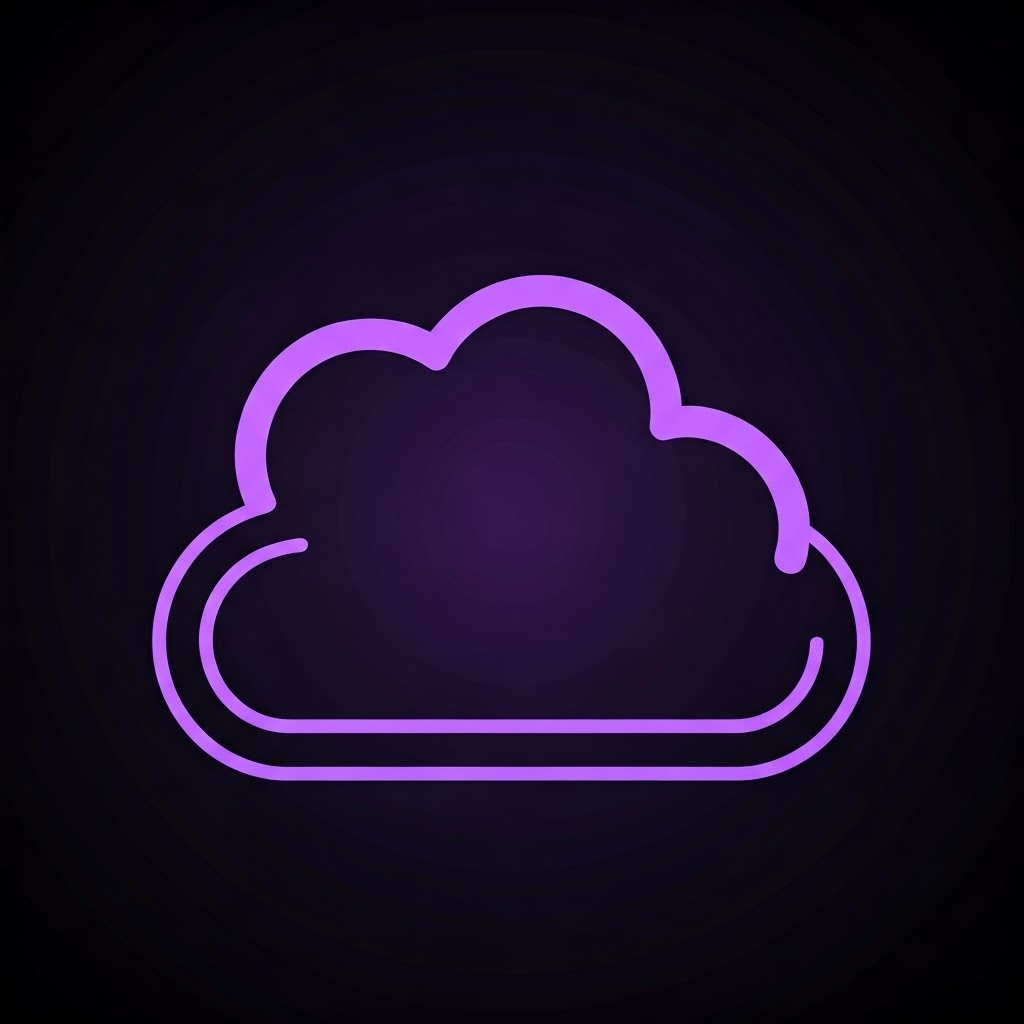
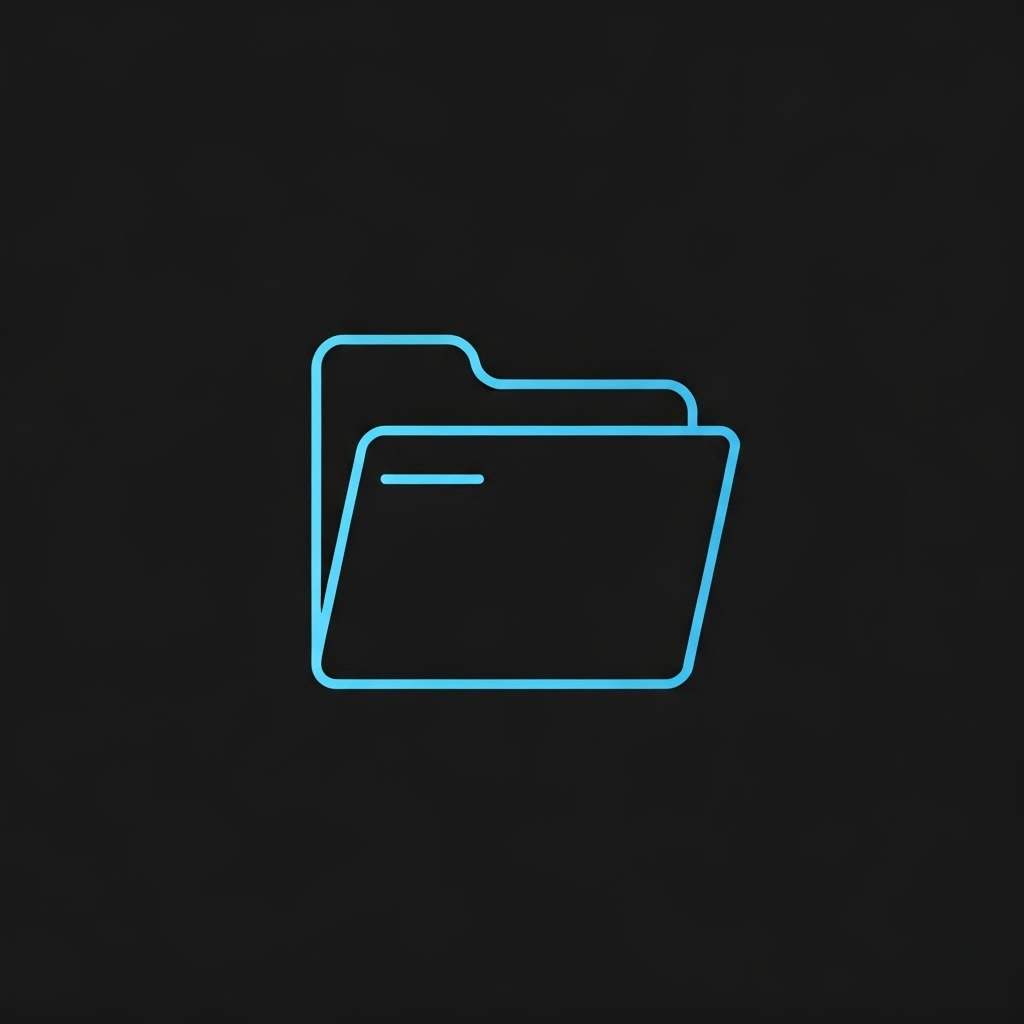
Fix minor UI issue in footer component.
Screenshot: https://storage.googleapis.com/screenshot-production-us-central1/db34dbeb-13b6-4460-85d6-feb8ddc5102d/a8c17a44-b217-43cb-b66e-6108f76ac754.jpg

diff --git a/client/src/components/footer.tsx b/client/src/components/footer.tsx
@@ -1,4 +1,3 @@
-```typescript
 import { motion } from "framer-motion";
 import { 
   Github, 
@@ -141,4 +140,3 @@ export default function Footer() {
     </motion.footer>
   );
 }
-```
